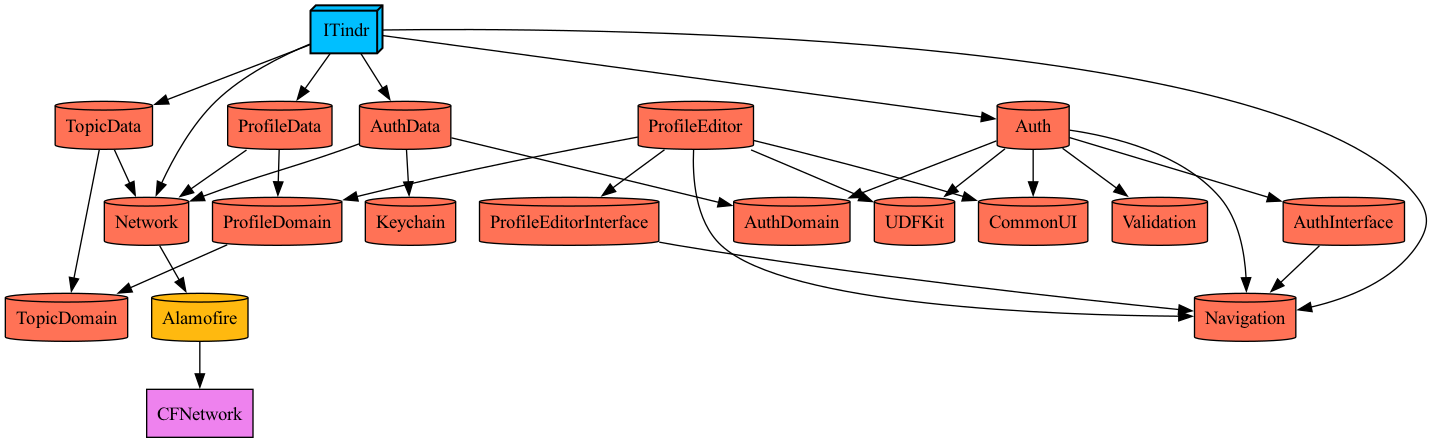
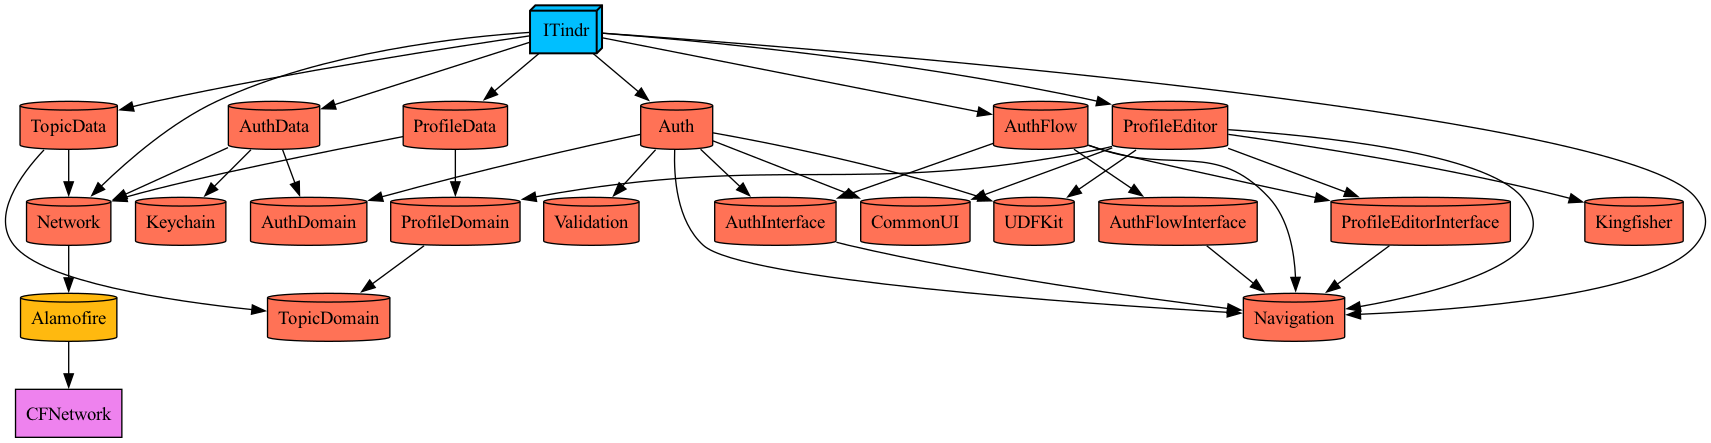
Init MainTabBar module

diff --git a/Modules/Features/ProfileEditor/Sources/Presentation/Screen/ProfileEditorScreen.swift b/Modules/Features/ProfileEditor/Sources/Presentation/Screen/ProfileEditorScreen.swift
@@ -33,7 +33,7 @@ struct ProfileEditorScreen: View {
 
                 VStack {
                     HStack {
-
+                        // TODO: Tags
                     }
                     .screenTitle(Strings.chooseInterests)
                 }
@@ -107,6 +107,7 @@ private extension ProfileEditorScreen {
                 .textContentType(.username)
                 .autocorrectionDisabled()
 
+            // TODO: Placeholder
             TextEditor(text: aboutMyself)
                 .tintColor()
                 .font(Fonts.regular16)

diff --git a/Modules/Features/ProfileEditor/Sources/Presentation/Screen/Store/ProfileEditorMiddleware.swift b/Modules/Features/ProfileEditor/Sources/Presentation/Screen/Store/ProfileEditorMiddleware.swift
@@ -45,6 +45,7 @@ final class ProfileEditorMiddleware: Middleware {
 private extension ProfileEditorMiddleware {
 
     func handleSaveTap(state: ProfileEditorState) async {
+        // TODO: Show error that field is required
         guard state.name.isValid else { return }
 
         let profile = UserProfileEdit(name: state.name.content, aboutMyself: state.aboutMyself, topics: [])

diff --git a/Modules/Shared/Data/AuthData/Sources/Repositories/AuthRepository.swift b/Modules/Shared/Data/AuthData/Sources/Repositories/AuthRepository.swift
@@ -21,7 +21,6 @@ public final class AuthRepository {
     public init(networkService: NetworkServiceProtocol, credentialsLocalDataSource: AuthCredentialsLocalDataSourceProtocol) {
         self.networkService = networkService
         self.credentialsLocalDataSource = credentialsLocalDataSource
-        try? credentialsLocalDataSource.delete()
     }
 }
 

diff --git a/Modules/Features/MainTabBar/Sources/MainTabBarCoordinator.swift b/Modules/Features/MainTabBar/Sources/MainTabBarCoordinator.swift
@@ -1,0 +1,14 @@
+//
+//  MainTabBarCoordinator.swift
+//  MainTabBar
+//
+//  Created by Ivan Semenov on 27.05.2024.
+//
+
+import Navigation
+
+final class MainTabBarCoordinator: BaseCoordinator {
+
+    override func start() {
+    }
+}

diff --git a/Modules/Features/MainTabBar/Project.swift b/Modules/Features/MainTabBar/Project.swift
@@ -1,0 +1,5 @@
+
+import ProjectDescription
+import ProjectDescriptionHelpers
+
+let project = Project.featureFramework(name: "MainTabBar")
